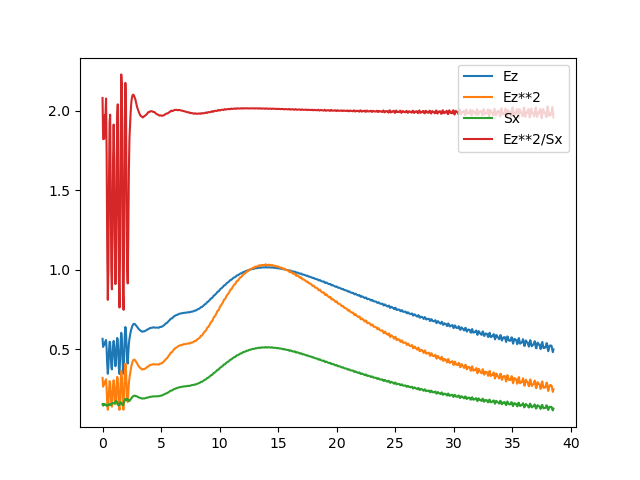
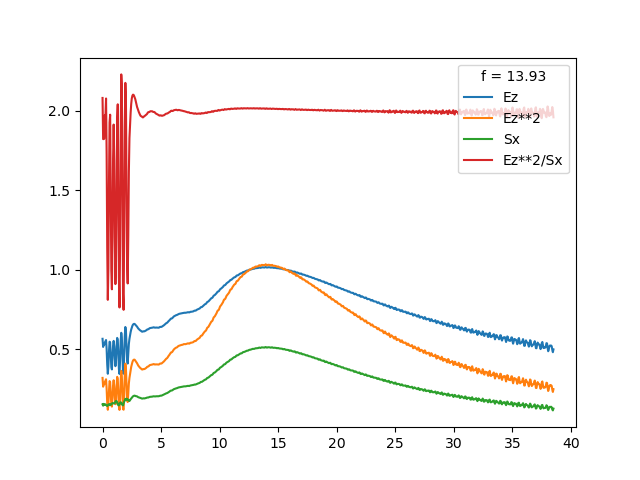
improved error consideration and added numeric value for focal length in refraction in lens

Changed region(s): [[0.7188, 0.125, 0.9062, 0.3438]]

diff --git a/docs/source/reflection_and_refraction.rst b/docs/source/reflection_and_refraction.rst
@@ -1,5 +1,6 @@
+==========
 Refraction
-============
+==========
 
 .. _reflection_and_refraction:
 
@@ -94,7 +95,7 @@ Now we run the simulation until 75. This time is long enough because then the wa
    :width: 90%
    :align: center
 
-To estimate the focal length we examine the electric field at the middle of the cell in y-direction and from after the lens until the right side PML layer in x-direction by using get_array and defining corresponding center and size. The values of the fields are spaced equally so we can create the distance from the lens using linspace. We take both z-component of the electric field and x component of the Poynting vector to show how they relate to intensity. We also calcute the ratio of square of Ez and Sx. Then we plot the values to visualize them and save the figure using savefig.
+To estimate the focal length we examine the electric field at the middle of the cell in y-direction and from after the lens until the right side PML layer in x-direction by using get_array and defining corresponding center and size. The values of the fields are spaced equally so we can create the distance from the lens using linspace. We take both z-component of the electric field and x component of the Poynting vector to show how they relate to intensity. We also calcute the ratio of square of Ez and Sx. A numeric value of focal length is obtained by taking the index of maximum value of Sx and taking the value of distance corresponding to that index. Then we plot the values to visualize them and save the figure using savefig. The numeric value of focal length is shown in the title of the legend.
 
 .. code-block :: python
 
@@ -109,12 +110,14 @@ To estimate the focal length we examine the electric field at the middle of the 
         Ez2Sx.append(abs(center_dataEz[i])**2/abs(center_dataSx[i]))
         i = i+1
 
+    focal_length = pointsSx[np.argmax(center_dataSx)]
+
     plt.figure()
     plt.plot(pointsEz, abs(center_dataEz), label='Ez')
     plt.plot(pointsEz, abs(center_dataEz) ** 2, label='Ez**2')
     plt.plot(pointsSx, abs(center_dataSx), label='Sx')
     plt.plot(pointsSx, Ez2Sx, label='Ez**2/Sx')
-    plt.legend(loc="upper right")
+    plt.legend(loc="upper right", title="f = {:.2f}".format(focal_length))
     plt.savefig("Intensity_after_lens.png")
     plt.show()
 
@@ -139,11 +142,11 @@ We can create animation of the simulation using Animate2D object and at_every fu
     filename = "./Lens_animation.mp4"
     Animate.to_mp4(10, filename)
 
-We notice the ratio of :math:`E_{z}^{2}` and :math:`S_{x}` is 2 other than at the close vicinity from the lens where there is a lot of error. Intensity is defined as the magnitude of the Poynting vector but also corresponds to the square of the electric field:
+We notice the ratio of :math:`\left|E_{z}\right|^{2}` and :math:`S_{x}` is 2 other than at the close vicinity from the lens where there is a lot of error. Intensity is defined as the magnitude of the Poynting vector but also corresponds to the square of the electric field:
 
 .. math::
 
-    \frac{1}{2}cn\varepsilon_{0}\abs{E}^{2}
+    \frac{1}{2}cn\varepsilon_{0}\left|{E}\right|^{2}
 
 In meep speed of light and vacuum permittivity are defined as 1. Thus the square of Ez is twice as large as Sz as it should be.
 
@@ -153,13 +156,13 @@ Focal length depeds on refractive index and curvature of the lens according to L
 
     \frac{1}{f}=(n-1)\left(\frac{1}{R_{1}}-\frac{1}{R_{2}}+\frac{(n-1)d}{nR_{1}R_{2}}\right)
 
-In this simulation we have a simple case where only one of the surfaces is spherical, while the other one is flat. Thus :math:`R_{2}=\infty` and the equation simplify to
+In this simulation we have a simple case where only one of the surfaces is spherical, while the other one is flat. Thus :math:`R_{2}=\infty` and the equation simplify to:
 
 .. math::
 
     f=\frac{R_{1}}{n-1}
 
-The focal length is the length in the plot where the maximum intensity is reached. There is some error compared to Lens-Maker's equation because Lens-Maker's equation is based on geometrical optics, where MEEP does wave optics. MEEP takes into account effects such as diffraction, interference and near-field effects. Also reflection at the lens could cause error. Lens-Maker's equation assumes paraxial approximation. Thus the there is more error for thicker lens with larger radius where the angle of incidence is larger. The resolution used in the simulation can also limit the accuracy.
+The focal length is the length in the plot where the maximum intensity is reached. There is some error compared to Lens-Maker's equation because Lens-Maker's equation is based on geometrical optics, where MEEP does wave optics. MEEP takes into account effects such as diffraction, interference, near-field effects and reflection at the lens' surface. In our simulation the size of lens is only around 10 times the wavelength so the lens we consider is microscopic, which causes these phenomena have more effect. MEEP could be used to simulate larger lens, but the simulation times might grow long. In MEEP the legths are defined as fractions so by keeping the geometry the same and increasing frequency (decreasing wavelength) of the source we can simulate larger lens size. The resolution used in the simulation can limit the accuracy. When increasing the frequency, we need to increase the resolution to keep the results reasonable. Lens-Maker's equation assumes paraxial approximation. Thus the there is more error for thicker lens with smaller radius where the angle of incidence is larger.
 
 Demo 2: Luneburg lens
 =====================
